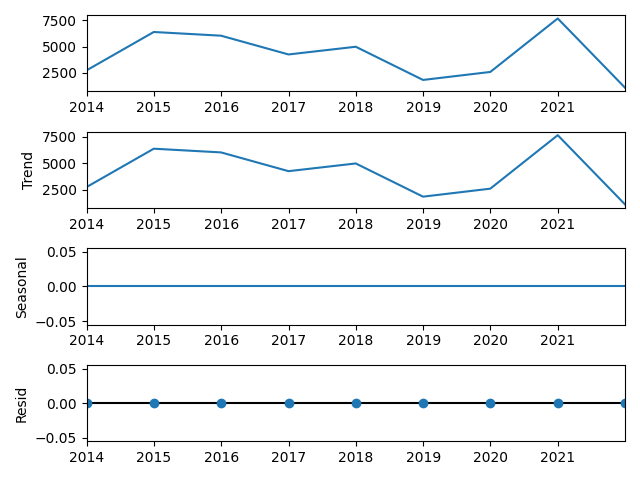
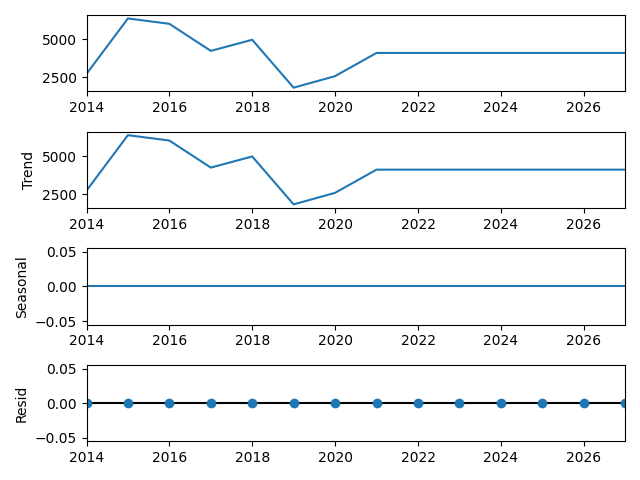
n

diff --git a/web/templates/import.html b/web/templates/import.html
@@ -41,8 +41,7 @@
            
               </div>
               <div class="field">
-                <input type ="submit" name="action">
-                <br>
+                
                 <input type="file" id="file" name="csvfile" class="button is-success"value="Import" accept=" .csv"><br />
                 
                 <br><br>

diff --git a/web/templates/forecast.html b/web/templates/forecast.html
@@ -24,7 +24,7 @@
  
     is checkbox check for all cust: {{all}}.
  
-
+    {{ data | safe }}
 <canvas id='linechart' width= "900" height = "400"> </canvas>
 <script> 
 var ctx= document.getElementById("linechart").getContext("2d");

diff --git a/web/auth.py b/web/auth.py
@@ -123,17 +123,33 @@ def income():
 def imported():
   if request.form.get('action') == "Forecast":
     uploaded= request.form['csvfile']
+    timescale= request.form.get('timescale')
+    option = request.form['options']
     data=[]
     print('got file')
     with open(uploaded) as file:
       csvfile=csv.reader(file)
       for row in csvfile:
         data.append(row)
-        print('appendedddd')
-    data=pd.DataFrame(data)
-    
-    return render_template('data.html',data=data.to_html())
+       
+    data=pd.DataFrame(data,columns=['date', 'income'])
       
+    data['date'] = pd.to_datetime(data['date'], format='%Y-%m-%d')
+    data=data.resample(model.resampling(timescale),on='date').sum()
+  
+
+    if option == 'arma':
+     predVal,trainVal,testVal=model.ARMA(data,timescale)
+     return redirect(url_for('auth.forecast',predD=predVal,trainD=trainVal,testD=testVal,timescale=timescale,model=option,data=data.to_html()))
+
+    if option == 'arima':
+     predVal,trainVal,testVal=model.ARIMA(data,timescale)
+     return redirect(url_for('auth.forecast',predD=predVal,trainD=trainVal,testD=testVal,timescale=timescale,model=option,data=data.to_html()))
+
+    if option == 'sarima':
+     predVal,trainVal,testVal=model.SARIMA(data,timescale)
+     return redirect(url_for('auth.forecast',predD=predVal,trainD=trainVal,testD=testVal,timescale=timescale,model=option,data=data.to_html()))
+    
   return render_template('import.html')
 
 
@@ -194,7 +210,3 @@ where   (a.com_status = 'VER' or a.com_status = 'ACT')""")
   ret= list(map(lambda x: x[0], res))
   return ret
 
-def import_data():
-  print('immm')
-  file = request.files['file']
-  return file
